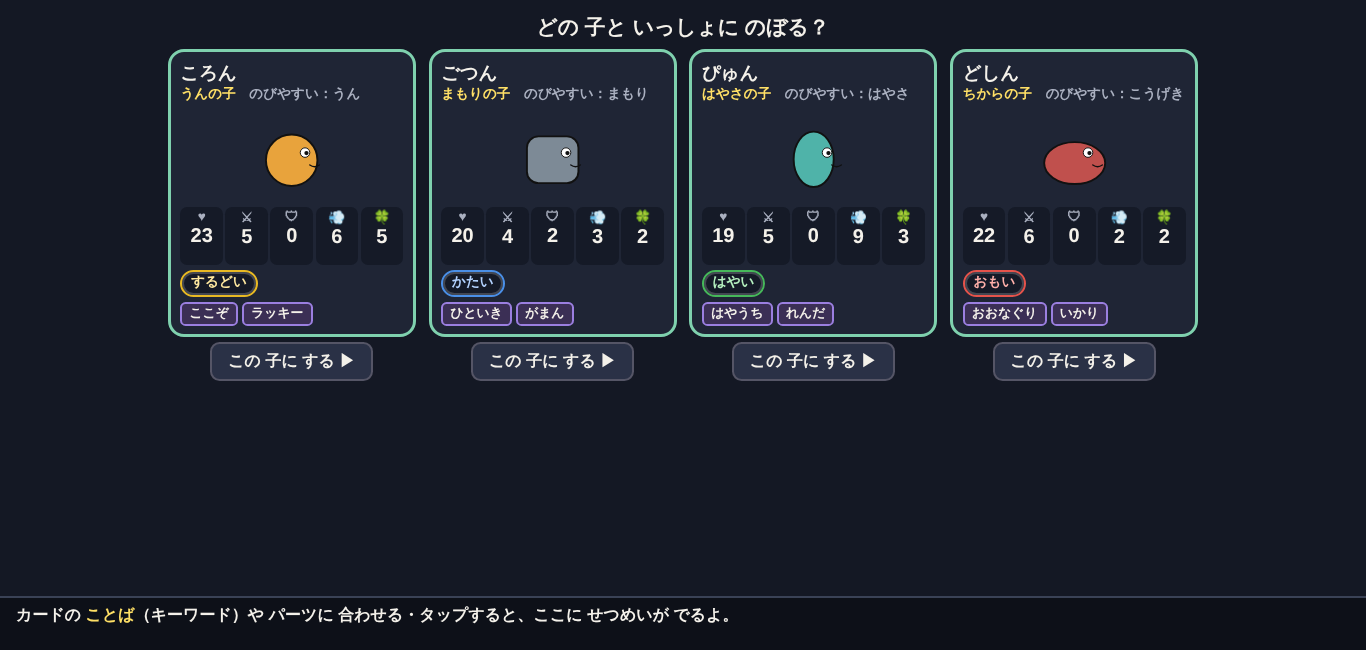
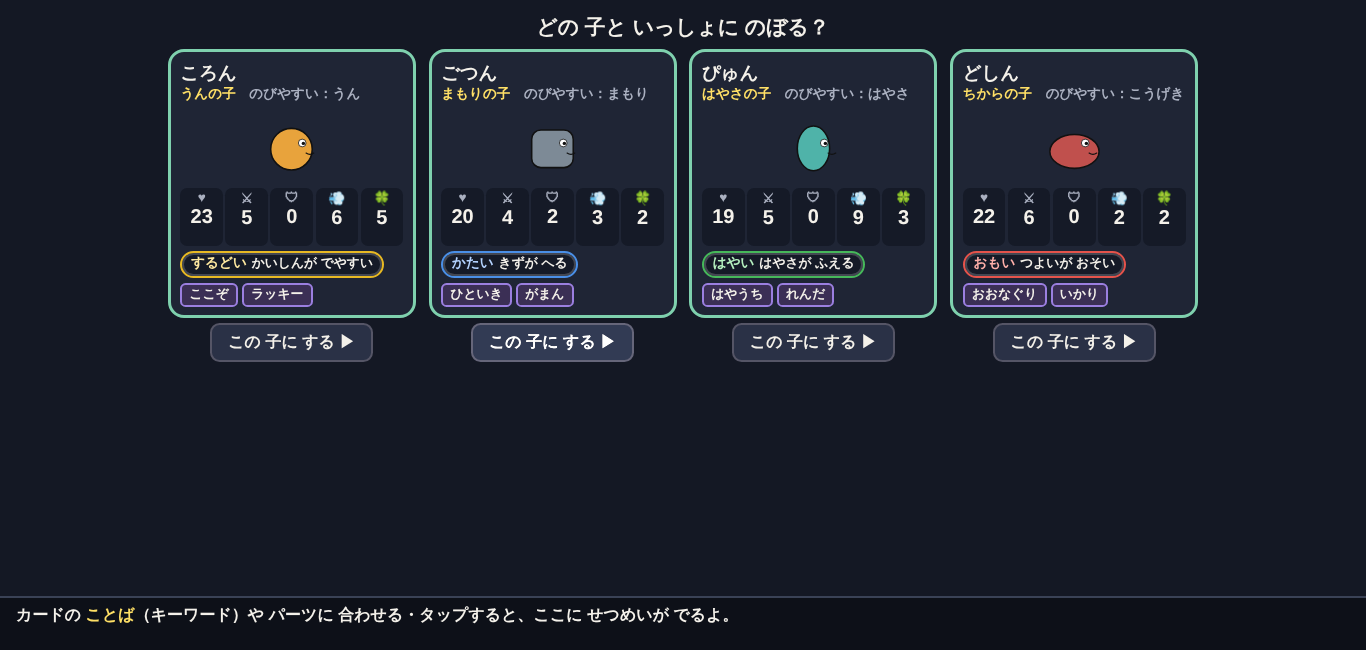
remake その2 の 1つ目：キーワードごとの なれ・ひらめきで 技を 覚える（その キーワードの パーツで 使える）・ひらめき＝レベルアップ（CFG.hira.on）
- 覚える 技 8つ（1つに キーワード 2つ。パーツの キーワード 16を 全部 おおう）
- なれ：戦うたび つけた パーツの キーワードごとに +1（てごわい +2）、3 で 満タン → 勝った あと かならず ひらめく
- ひらめいた ときだけ FE 式の レベルアップ（技の ステータスは かならず +1）。ぬしの たいりょく ×1.3 → ×0.8（hira.on の とき）
- 結果の 画面：💡 ひらめいた！／なれの ●○。カード：おぼえた 技（使えない ときは うすく）
- tests 45 → 65。bot に ひらめきの 列

Claude-Session: https://claude.ai/code/session_01MmzYoQ3ojMtSW1UrjhvAHb

Changed region(s): [[0.123, 0.1846, 0.8917, 0.5846]]

diff --git a/remake/sim.js b/remake/sim.js
@@ -2,7 +2,8 @@
 // ブラウザ（index.html）と Node（bot.js・tests.js）の両方から同じファイルを読む。
 // 設計書：https://claude.ai/artifact/GGMbMbeSY1gf7wLvytHtyb （キーワード・5つの ステータス・うん・役割の 枠・ハート）
 // その1（2026-10-29）：キーワードの パーツ 16・相手 10＋ぬし・種類 4（1つの テーマ）・ハート 3・負けの 理由・ヒント。
-//   ひらめき（技を 覚える）・自由枠・卵・場所 は まだ（その2 以降）。かわりに 勝つと「レベルアップ」（FE 式。その2 で ひらめきに つなぐ）。
+//   自由枠・卵・場所 は まだ。
+// その2 の 1つ目（2026-10-30）：キーワードごとの なれ・ひらめきで 技を 覚える（その キーワードの パーツで 使える）・ひらめき＝レベルアップ（CFG.hira.on）。
 (function (root, factory) {
   var api = factory();
   if (typeof module !== 'undefined' && module.exports) module.exports = api;
@@ -34,7 +35,11 @@
     hard: { hp: 1.2, atk: 1 },     // てごわい：たいりょく ×1.2・こうげき +1
     boss: { hp: 1.3, atk: 1 },
     hpUp: 2,               // レベルアップの たいりょくは +2（ほかは +1）
-    startParts: 3          // はじめの もちもの（役割ごとに 1つ）
+    startParts: 3,         // はじめの もちもの（役割ごとに 1つ）
+    // その2：ひらめき（技を 覚える）。on＝false で その1 の「勝つたび レベルアップ」に もどる
+    //   なれ：戦うたび（勝ち・負け）つけた パーツの キーワードごとに +1（てごわい +2）。nareMax で 満タン。
+    //   勝ったら 1回 ためす：満タンの キーワードが あれば かならず、なければ chance ＋ うん×perLuck（てごわい ＋hard）。
+    hira: { on: true, nareMax: 3, nareHard: 2, chance: 0.15, perLuck: 0.02, hard: 0.15, bossHp: 0.8 } // bossHp：on の ときの ぬしの たいりょく（off は boss.hp）。勝つたびの レベルアップが なくなる ぶん 下げる（ボット）
   };
 
   // ---------- キーワード（役割の 色：せめ＝赤・まもり＝青・うごき＝緑・うん＝黄・じょうたい＝紫） ----------
@@ -95,9 +100,20 @@
     { id: 'hayauchi', name: 'はやうち',  text: 'さいしょの じぶんの手は 2かい こうげき' },
     { id: 'renda',   name: 'れんだ',     text: '4手ごとに、もう1かい こうげき' },
     { id: 'oonaguri', name: 'おおなぐり', text: '4手ごとに、つぎに あたる 1げきが ×2' },
-    { id: 'ikari',   name: 'いかり',     text: 'たいりょくが 半分より すくないと こうげき +2' }
+    { id: 'ikari',   name: 'いかり',     text: 'たいりょくが 半分より すくないと こうげき +2' },
+    // ひらめきで 覚える 技（その2）。kw の どれかを もつ パーツを つけて いる ときだけ 使える。stat＝ひらめいた ときに かならず +1
+    { id: 'chikara', learn: true, kw: ['heavy', 'charge'],   stat: 'atk',  name: 'ちからこめ', text: '4手ごとに、つぎに あたる 1げき +3' },
+    { id: 'kakenuke', learn: true, kw: ['ren', 'fast'],      stat: 'spd',  name: 'かけぬけ',   text: 'あいてより はやければ 1げき +1' },
+    { id: 'todome',  learn: true, kw: ['nerai', 'sure'],     stat: 'atk',  name: 'とどめ',     text: 'あいての たいりょくが 半分より すくないと 1げき +2' },
+    { id: 'shitsukoi', learn: true, kw: ['poison', 'brittle'], stat: 'luck', name: 'しつこい', text: 'あてた どく・もろいが 1手 ながく つづく' },
+    { id: 'fuiuchi', learn: true, kw: ['stagger', 'ranged'], stat: 'spd',  name: 'ふいうち',   text: 'さいしょに あたる 1げき +3' },
+    { id: 'teppeki', learn: true, kw: ['hard', 'counter'],   stat: 'def',  name: 'てっぺき',   text: 'さいしょに うける 1げきは 1 ダメージ' },
+    { id: 'fukkatsu', learn: true, kw: ['regen', 'leech'],   stat: 'hp',   name: 'ふっかつ',   text: 'たいりょくが 半分より すくない 最初の手の はじめに たいりょく +5' },
+    { id: 'mikawashi', learn: true, kw: ['immune', 'hirari'], stat: 'luck', name: 'みかわし', text: 'よけるたび たいりょく +2' }
   ];
   var WAZA_BY_ID = {}; WAZA.forEach(function (w) { WAZA_BY_ID[w.id] = w; });
+  var LEARN = WAZA.filter(function (w) { return w.learn; });
+  var LEARN_BY_KW = {}; LEARN.forEach(function (w) { w.kw.forEach(function (k) { LEARN_BY_KW[k] = w; }); });
 
   // ---------- 種類 4（1つの テーマ：生まれつきの キーワード・伸びやすい ステータス） ----------
   // grow：レベルアップで その ステータスが 上がる 確率（FE の 成長率）。いまは ひらめきが まだ ないので 勝つたびに 1回。
@@ -166,7 +182,7 @@
   // 相手の 段階ごとの 基礎（s＝1〜10、hard＝てごわい）
   function enemyBase(idx, s, hard) {
     var d = enemyDef(idx);
-    var hp = d.hp * (1 + CFG.stageHp * (s - 1)) * (hard ? CFG.hard.hp : 1) * (d.boss ? CFG.boss.hp : 1);
+    var hp = d.hp * (1 + CFG.stageHp * (s - 1)) * (hard ? CFG.hard.hp : 1) * (d.boss ? (CFG.hira.on ? CFG.hira.bossHp : CFG.boss.hp) : 1);
     var atk = d.atk * (1 + CFG.stageAtk * (s - 1)) + (hard ? CFG.hard.atk : 0) + (d.boss ? CFG.boss.atk : 0);
     return { hp: Math.round(hp), atk: Math.round(atk), def: d.def + Math.floor((s - 1) / CFG.stageDefEvery), spd: d.spd, luck: 0 };
   }
@@ -174,6 +190,13 @@
   function playerSrc(run, equip) {
     var sp = SPECIES_BY_ID[run.species];
     return { base: run.stats, kw: [sp.kw], parts: equipList(equip), enemy: false };
+  }
+  // 戦いで 使える 技：うまれつき 2つ ＋ 覚えた 技の うち、いまの パーツに その キーワードが ある もの
+  function canUse(w, equip) { var ks = {}; equipList(equip).forEach(function (pid) { PART_BY_ID[pid].kw.forEach(function (k) { ks[k] = true; }); }); return w.kw.some(function (k) { return ks[k]; }); }
+  function wazaFor(run, equip) {
+    var out = SPECIES_BY_ID[run.species].waza.slice();
+    (run.learned || []).forEach(function (id) { var w = WAZA_BY_ID[id]; if (w && canUse(w, equip)) out.push(id); });
+    return out;
   }
   function equipList(equip) { var e = equip || {}; return ['atk', 'def', 'mov'].map(function (r) { return e[r]; }).filter(function (x) { return !!x; }); }
 
@@ -183,7 +206,7 @@
   function fighter(side, name, src, waza) {
     var st = statsOf(src);
     return { side: side, name: name, st: st, kw: st.kw, sp: st.specials, hp: st.hp, maxHp: st.hp, hands: 0,
-      poison: 0, poisonPow: 0, stagger: false, brittle: 0, waza: waza || [], kokozoUsed: false, luckyNext: false, gaman: 0 };
+      poison: 0, poisonPow: 0, stagger: false, brittle: 0, waza: waza || [], kokozoUsed: false, luckyNext: false, gaman: 0, hitTaken: 0, fukkatsuUsed: false };
   }
   function battle(pSrc, eSrc, seed, opts) {
     opts = opts || {};
@@ -210,11 +233,14 @@
       for (var h = 0; h < hits && !dead(); h++) {
         // かいひ
         var dodge = a.kw.sure ? 0 : d.st.dodge;
-        if (dodge > 0 && rng() * 100 < dodge) { dodged[d.side]++; log({ t: 'dodge', who: d.side, by: d.kw.yokeru ? 'yokeru' : d.kw.hirari ? 'hirari' : 'luck' }); if (d.waza.indexOf('lucky') >= 0) d.luckyNext = true; continue; }
+        if (dodge > 0 && rng() * 100 < dodge) { dodged[d.side]++; log({ t: 'dodge', who: d.side, by: d.kw.yokeru ? 'yokeru' : d.kw.hirari ? 'hirari' : 'luck' }); if (d.waza.indexOf('lucky') >= 0) d.luckyNext = true; if (d.waza.indexOf('mikawashi') >= 0) { log({ t: 'waza', who: d.side, w: 'mikawashi' }); heal(d, 2, 'mikawashi'); } continue; }
         var m = mult * (charged ? CFG.chargeMult : 1) * (st ? CFG.staggerMult : 1) * (a.multPending || 1); a.multPending = 0;
         var raw = atk * m;
         if (a.sp.weightPlus) raw += 1;
         if (a.gaman) { raw += a.gaman; a.gaman = 0; }
+        if (a.plusPending) { raw += a.plusPending; a.plusPending = 0; }
+        if (a.waza.indexOf('kakenuke') >= 0 && a.st.spd > d.st.spd) raw += 1;
+        if (a.waza.indexOf('todome') >= 0 && d.hp * 2 < d.maxHp) raw += 2;
         var status = d.poison > 0 || d.stagger || d.brittle > 0;
         if (a.kw.nerai && status) raw += CFG.neraiPlus;
         if (d.brittle > 0) raw += CFG.brittlePlus;
@@ -222,22 +248,27 @@
         var dmg = Math.max(1, Math.round(raw) - def);
         var crit = a.critPending || rng() * 100 < a.st.crit; a.critPending = false;
         if (crit) dmg *= CFG.critMult;
+        var wall = d.waza.indexOf('teppeki') >= 0 && d.hitTaken === 0; d.hitTaken++;
+        if (wall) { dmg = 1; log({ t: 'waza', who: d.side, w: 'teppeki' }); }
         dmgTo(d, dmg, charged ? 'charge' : 'hit', a.side);
         dealtSum += dmg;
-        log({ t: 'hit', who: a.side, to: d.side, dmg: dmg, crit: !!crit, charged: !!charged, nerai: !!(a.kw.nerai && status), brittle: d.brittle > 0, pierce: !!(charged && a.sp.hornPierce && d.st.def > 0), hp: d.hp });
+        log({ t: 'hit', who: a.side, to: d.side, dmg: dmg, crit: !!crit, wall: wall, charged: !!charged, nerai: !!(a.kw.nerai && status), brittle: d.brittle > 0, pierce: !!(charged && a.sp.hornPierce && d.st.def > 0), hp: d.hp });
         if (d.waza.indexOf('gaman') >= 0 && d.gaman < 3) d.gaman++;
         if (d.hp > 0) {
           // じょうたいを かける
           if (!d.kw.immune) {
-            if (a.kw.poison) { if (d.poison > 0 && a.sp.fangGrow) { d.poisonPow++; log({ t: 'kw', who: a.side, kw: 'fangGrow', n: CFG.poisonDmg + d.poisonPow }); } d.poison = CFG.poisonHands; log({ t: 'status', who: d.side, st: 'poison' }); }
+            if (a.kw.poison) { if (d.poison > 0 && a.sp.fangGrow) { d.poisonPow++; log({ t: 'kw', who: a.side, kw: 'fangGrow', n: CFG.poisonDmg + d.poisonPow }); } d.poison = CFG.poisonHands + (a.waza.indexOf('shitsukoi') >= 0 ? 1 : 0); log({ t: 'status', who: d.side, st: 'poison', n: d.poison }); }
             if (a.kw.stagger) { d.stagger = true; log({ t: 'status', who: d.side, st: 'stagger' }); }
-            if (a.kw.brittle) { d.brittle = CFG.brittleHands; log({ t: 'status', who: d.side, st: 'brittle' }); }
+            if (a.kw.brittle) { d.brittle = CFG.brittleHands + (a.waza.indexOf('shitsukoi') >= 0 ? 1 : 0); log({ t: 'status', who: d.side, st: 'brittle', n: d.brittle }); }
           } else if (a.kw.poison || a.kw.stagger || a.kw.brittle) log({ t: 'kw', who: d.side, kw: 'immune' });
           // はんげき
           if (d.kw.counter && !a.kw.ranged) {
             // はんげきも「1げき」：うける 側の もろい（+2）・はんげきする 側の ねらいうち（+2）が のる
-            var craw = Math.round(d.st.atk * CFG.counterRatio) + (a.brittle > 0 ? CFG.brittlePlus : 0) + (d.kw.nerai && (a.poison > 0 || a.stagger || a.brittle > 0) ? CFG.neraiPlus : 0);
+            var craw = Math.round(d.st.atk * CFG.counterRatio) + (a.brittle > 0 ? CFG.brittlePlus : 0) + (d.kw.nerai && (a.poison > 0 || a.stagger || a.brittle > 0) ? CFG.neraiPlus : 0)
+              + (d.waza.indexOf('kakenuke') >= 0 && d.st.spd > a.st.spd ? 1 : 0) + (d.waza.indexOf('todome') >= 0 && a.hp * 2 < a.maxHp ? 2 : 0); // 覚えた 技の「1げき +」も のる
             var c = Math.max(1, craw - a.st.def);
+            if (a.waza.indexOf('teppeki') >= 0 && a.hitTaken === 0) { c = 1; log({ t: 'waza', who: a.side, w: 'teppeki' }); }
+            a.hitTaken++;
             dmgTo(a, c, 'counter', d.side);
             if (a.waza.indexOf('gaman') >= 0 && a.gaman < 3) a.gaman++;
             log({ t: 'counter', who: d.side, to: a.side, dmg: c, hp: a.hp });
@@ -251,6 +282,9 @@
       log({ t: 'hand', who: a.side, n: a.hands });
       if (a.kw.regen) heal(a, CFG.regenHeal, 'regen');
       if (a.waza.indexOf('hitoiki') >= 0 && a.hands % 4 === 0) { log({ t: 'waza', who: a.side, w: 'hitoiki' }); heal(a, 3, 'hitoiki'); }
+      if (a.waza.indexOf('fukkatsu') >= 0 && !a.fukkatsuUsed && a.hp * 2 < a.maxHp) { a.fukkatsuUsed = true; log({ t: 'waza', who: a.side, w: 'fukkatsu' }); heal(a, 5, 'fukkatsu'); }
+      if (a.waza.indexOf('chikara') >= 0 && a.hands % 4 === 0) { a.plusPending = (a.plusPending || 0) + 3; log({ t: 'waza', who: a.side, w: 'chikara' }); }
+      if (a.waza.indexOf('fuiuchi') >= 0 && a.hands === 1) { a.plusPending = (a.plusPending || 0) + 3; log({ t: 'waza', who: a.side, w: 'fuiuchi' }); }
       var hits = 1;
       if (a.kw.ren) hits = (a.sp.claw3 && a.st.spd > d.st.spd) ? 3 : 2;
       var forceCrit1 = false, mult1 = 0;
@@ -306,7 +340,7 @@
     var rng = rngFrom(mix(seed, 777));
     var owned = ROLES.map(function (r) { var c = PARTS.filter(function (p) { return p.role === r.id; }); return c[Math.floor(rng() * c.length)].id; });
     var run = { v: 1, seed: seed >>> 0, species: sp.id, stats: JSON.parse(JSON.stringify(sp.base)), hearts: CFG.hearts, wins: 0,
-      owned: owned, equip: { atk: owned[0], def: owned[1], mov: owned[2] }, tries: 0, lossStreak: 0, levels: [], history: [], over: false, clear: false };
+      owned: owned, equip: { atk: owned[0], def: owned[1], mov: owned[2] }, tries: 0, lossStreak: 0, levels: [], nare: {}, learned: [], history: [], over: false, clear: false };
     run.fork = makeFork(run);
     return run;
   }
@@ -334,13 +368,16 @@
     var road = run.fork.roads[roadIndex];
     var s = run.fork.stage, d = enemyDef(road.idx);
     run.equip = { atk: equip.atk || null, def: equip.def || null, mov: equip.mov || null };
-    var res = battle(playerSrc(run, run.equip), enemySrc(road.idx, s, road.hard), battleSeed(run, road), { waza: SPECIES_BY_ID[run.species].waza, eName: d.name });
+    if (!run.nare) run.nare = {}; if (!run.learned) run.learned = []; // 前の 保存（その1）にも 足す
+    var res = battle(playerSrc(run, run.equip), enemySrc(road.idx, s, road.hard), battleSeed(run, road), { waza: wazaFor(run, run.equip), eName: d.name });
+    if (CFG.hira.on) addNare(run, road.hard);
     var out = { res: res, win: res.win, stage: s, road: road };
     run.history.push({ s: s, e: d.id, hard: road.hard, win: res.win, try: run.tries });
     if (res.win) {
       out.reward = rewardsFor(run, road);
       out.reward.forEach(function (p) { run.owned.push(p); });
-      out.level = levelUp(run);
+      if (CFG.hira.on) { out.hira = hirameki(run, road); if (out.hira) out.level = levelUp(run, WAZA_BY_ID[out.hira].stat); }
+      else out.level = levelUp(run);
       run.wins++; run.tries = 0; run.lossStreak = 0;
       if (run.wins >= CFG.runBattles) { run.clear = true; run.over = true; out.clear = true; }
       else run.fork = makeFork(run);
@@ -352,22 +389,46 @@
     return out;
   }
   // レベルアップ（FE 式）：ステータスごとに 成長率の 確率で +1（たいりょくは +2）。1つも 上がらなければ いちばん 成長率の 高い ものを +1。
-  function levelUp(run) {
+  // must：かならず 上がる ステータス（ひらめいた 技の stat）
+  function levelUp(run, must) {
     var sp = SPECIES_BY_ID[run.species], rng = rngFrom(mix(run.seed, 9000 + run.wins)), up = {}, any = false;
-    STATS.forEach(function (s) { if (rng() < sp.grow[s.id]) { up[s.id] = s.id === 'hp' ? CFG.hpUp : 1; any = true; } });
+    STATS.forEach(function (s) { if (rng() < sp.grow[s.id] || s.id === must) { up[s.id] = s.id === 'hp' ? CFG.hpUp : 1; any = true; } });
     if (!any) { var best = STATS.slice().sort(function (a, b) { return sp.grow[b.id] - sp.grow[a.id]; })[0].id; up[best] = best === 'hp' ? CFG.hpUp : 1; }
     Object.keys(up).forEach(function (k) { run.stats[k] += up[k]; });
     run.levels.push(up);
     return up;
+  }
+  // なれ：つけた パーツの キーワードごとに +1（てごわい +nareHard）。満タンを こえない。もう 覚えた 技の キーワードは ためない
+  function addNare(run, hard) {
+    var seen = {};
+    equipList(run.equip).forEach(function (pid) { PART_BY_ID[pid].kw.forEach(function (k) {
+      if (seen[k] || !LEARN_BY_KW[k] || run.learned.indexOf(LEARN_BY_KW[k].id) >= 0) return; seen[k] = true;
+      run.nare[k] = Math.min(CFG.hira.nareMax, (run.nare[k] || 0) + (hard ? CFG.hira.nareHard : 1));
+    }); });
+  }
+  // ひらめき（勝った あと 1回）：まだ 覚えて いない 技の キーワードで、なれが 満タンの ものが あれば かならず（いちばん 多い・同じなら パーツの 順）。
+  // なければ chance ＋ うん×perLuck（てごわい ＋hard）の 確率で、つけた キーワードから 1つ。覚えたら その 技の キーワードの なれは 0。返すもの：技の id か null
+  function hirameki(run, road) {
+    var rng = rngFrom(mix(run.seed, 9500 + run.wins * 3 + run.tries)), cand = [];
+    equipList(run.equip).forEach(function (pid) { PART_BY_ID[pid].kw.forEach(function (k) { var w = LEARN_BY_KW[k]; if (w && run.learned.indexOf(w.id) < 0 && cand.indexOf(k) < 0) cand.push(k); }); });
+    if (!cand.length) return null;
+    var full = cand.filter(function (k) { return (run.nare[k] || 0) >= CFG.hira.nareMax; }), pick = null;
+    if (full.length) pick = full.slice().sort(function (a, b) { return (run.nare[b] || 0) - (run.nare[a] || 0); })[0];
+    else { var p = CFG.hira.chance + CFG.hira.perLuck * run.stats.luck + (road.hard ? CFG.hira.hard : 0); if (rng() < p) pick = cand[Math.floor(rng() * cand.length)]; }
+    if (!pick) return null;
+    var w = LEARN_BY_KW[pick];
+    run.learned.push(w.id);
+    w.kw.forEach(function (k) { run.nare[k] = 0; });
+    return w.id;
   }
   // ヒント（2回 続けて 負けたとき）：もちものの 組み合わせを 全部 ためして、いちばん 勝ちやすい 組を 返す
   function bestEquip(run, roadIndex, tries) {
     tries = tries || 12;
     var road = run.fork.roads[roadIndex], s = run.fork.stage;
     var byRole = {}; ROLES.forEach(function (r) { byRole[r.id] = [null].concat(run.owned.filter(function (p) { return PART_BY_ID[p].role === r.id; })); });
-    var best = null, bestScore = -1, bestN = -1, eSrc = enemySrc(road.idx, s, road.hard), waza = SPECIES_BY_ID[run.species].waza;
+    var best = null, bestScore = -1, bestN = -1, eSrc = enemySrc(road.idx, s, road.hard);
     byRole.atk.forEach(function (a) { byRole.def.forEach(function (d) { byRole.mov.forEach(function (m) {
-      var eq = { atk: a, def: d, mov: m }, w = 0, pSrc = playerSrc(run, eq);
+      var eq = { atk: a, def: d, mov: m }, w = 0, pSrc = playerSrc(run, eq), waza = wazaFor(run, eq);
       for (var i = 0; i < tries; i++) { var r = battle(pSrc, eSrc, mix(4242 + i, s), { waza: waza }); if (r.win) w += 1; else w += 0.001 * (1 - r.eHp / r.eMax); }
       // 同じ くらいなら パーツが 多い 組（「はずす」を むやみに すすめない）
       var n = (a ? 1 : 0) + (d ? 1 : 0) + (m ? 1 : 0);
@@ -378,7 +439,7 @@
   }
 
   return { CFG: CFG, KW: KW, KW_BY_ID: KW_BY_ID, ROLES: ROLES, ROLE_COLOR: ROLE_COLOR, STATS: STATS, PARTS: PARTS, PART_BY_ID: PART_BY_ID, PART_IDS: PART_IDS,
-    WAZA: WAZA, WAZA_BY_ID: WAZA_BY_ID, SPECIES: SPECIES, SPECIES_BY_ID: SPECIES_BY_ID, ENEMIES: ENEMIES, BOSS: BOSS, ENEMY_BY_ID: ENEMY_BY_ID, enemyDef: enemyDef,
+    WAZA: WAZA, WAZA_BY_ID: WAZA_BY_ID, LEARN: LEARN, LEARN_BY_KW: LEARN_BY_KW, wazaFor: wazaFor, canUse: canUse, addNare: addNare, hirameki: hirameki, SPECIES: SPECIES, SPECIES_BY_ID: SPECIES_BY_ID, ENEMIES: ENEMIES, BOSS: BOSS, ENEMY_BY_ID: ENEMY_BY_ID, enemyDef: enemyDef,
     rngFrom: rngFrom, mix: mix, statsOf: statsOf, enemyBase: enemyBase, enemySrc: enemySrc, playerSrc: playerSrc, equipList: equipList,
     battle: battle, loseReason: loseReason, REASONS: REASONS, newRun: newRun, makeFork: makeFork, rewardsFor: rewardsFor, fight: fight, levelUp: levelUp, bestEquip: bestEquip };
 });

diff --git a/remake/index.html b/remake/index.html
@@ -74,6 +74,11 @@ h2 { margin:.2rem 0 .5rem; font-size:1.3rem; }
 .ptile.empty { border-style:dashed; border-color:#555d70; color:#555d70; font-size:.8rem; font-weight:800; }
 .wzs { display:flex; gap:.25rem; flex-wrap:wrap; margin-top:.3rem; }
 .wz { font-size:.8rem; font-weight:900; padding:.1rem .45rem; border-radius:.35rem; background:#3b2f55; border:2px solid #9b7fe0; cursor:help; }
+.wz.learn { background:#4a3a12; border-color:#ffd166; }
+.wz.learn.off { opacity:.45; border-style:dashed; }
+.hira { font-size:1.15rem; font-weight:900; color:#ffe066; }
+.nare { display:flex; flex-wrap:wrap; gap:.3rem .7rem; justify-content:center; font-size:.85rem; font-weight:800; }
+.nare .dots { color:#ffd166; letter-spacing:.1rem; }
 .tag { white-space:nowrap; font-size:.8rem; font-weight:900; padding:.05rem .45rem; border-radius:.35rem; }
 .tag.hard { background:#ff7a59; color:#2a0f05; }
 /* 下の 説明の 帯（合わせる／タップで 出る） */
@@ -362,7 +367,7 @@ body[data-scr="title"] #tip { display:none; } /* タイトルには カードも
     (o.parts || []).forEach(function (pid) { S.PART_BY_ID[pid].kw.forEach(function (k) { if (!seen[k]) { seen[k] = 1; kwHtml += kwBadge(k); } }); });
     NOTE_LEFT = 99;
     var tiles = (o.parts || []).map(function (p) { return ptile(p); }).join('');
-    var wz = (o.waza || []).map(function (w) { return '<span class="wz" data-waza="' + w + '">' + S.WAZA_BY_ID[w].name + '</span>'; }).join('');
+    var wz = (o.waza || []).map(function (w) { var L = S.WAZA_BY_ID[w].learn, off = L && o.wazaOn && o.wazaOn.indexOf(w) < 0; return '<span class="wz' + (L ? ' learn' : '') + (off ? ' off' : '') + '" data-waza="' + w + '">' + (L ? '💡' : '') + S.WAZA_BY_ID[w].name + '</span>'; }).join('');
     return '<div class="card ' + (o.kind === 'me' ? 'me' : '') + (o.hard ? ' hard' : '') + '">' +
       '<div class="nm"><span>' + o.name + '</span>' + (o.hard ? '<span class="tag hard">てごわい</span>' : '') + '</div>' +
       (o.sub ? '<div class="sub">' + o.sub + '</div>' : '') +
@@ -374,7 +379,7 @@ body[data-scr="title"] #tip { display:none; } /* タイトルには カードも
   }
   function meCard(run, equip, cmp) {
     var sp = S.SPECIES_BY_ID[run.species];
-    return card({ kind: 'me', name: run.name || sp.name, sub: sp.name + '・' + sp.theme, shape: sp.shape, color: sp.color, src: S.playerSrc(run, equip), born: sp.kw, parts: S.equipList(equip), waza: sp.waza, cmp: cmp });
+    return card({ kind: 'me', name: run.name || sp.name, sub: sp.name + '・' + sp.theme, shape: sp.shape, color: sp.color, src: S.playerSrc(run, equip), born: sp.kw, parts: S.equipList(equip), waza: sp.waza.concat(run.learned || []), wazaOn: S.wazaFor(run, equip), cmp: cmp });
   }
   function foeCard(road, stage) {
     var d = S.enemyDef(road.idx);
@@ -387,7 +392,7 @@ body[data-scr="title"] #tip { display:none; } /* タイトルには カードも
     var k = el.getAttribute('data-kw'), p = el.getAttribute('data-part'), w = el.getAttribute('data-waza'), s = el.getAttribute('data-stat');
     if (k) { var d = S.KW_BY_ID[k]; return '<b>' + d.name + '</b>：' + d.text() + '（おなじ ことばが 2つ あっても 1かいぶん）'; }
     if (p) { var pp = S.PART_BY_ID[p]; return '<b>' + pp.name + '</b>（' + S.ROLES.filter(function (r) { return r.id === pp.role; })[0].name + '）：' + pp.kw.map(function (x) { return S.KW_BY_ID[x].name; }).join('・') + '／' + pp.line; }
-    if (w) { var ww = S.WAZA_BY_ID[w]; return '<b>' + ww.name + '</b>（うまれつきの わざ）：' + ww.text; }
+    if (w) { var ww = S.WAZA_BY_ID[w]; return '<b>' + ww.name + '</b>（' + (ww.learn ? 'おぼえた わざ。' + ww.kw.map(function (x) { return S.KW_BY_ID[x].name; }).join('か ') + 'の パーツを つけると つかえる' : 'うまれつきの わざ') + '）：' + ww.text; }
     if (s) { var tx = { hp: '0 に なると まけ', atk: '1げきの つよさ', def: 'うける 1げきを へらす', spd: 'はやい ほうが さきに うごく', luck: 'かいしんと かいひの でやすさ（かいしん ' + C.critBase + '%＋うん×' + C.critPerLuck + '%・かいひ うん×' + C.dodgePerLuck + '%）。あいては うんを もたない' }; return '<b>' + STAT_LABEL[s] + '</b>：' + tx[s]; }
     return null;
   }
@@ -569,8 +574,8 @@ body[data-scr="title"] #tip { display:none; } /* タイトルには カードも
           floatDmg(e.who, e.dmg, '#c77dff'); addLog(cls, nm + 'は どくで ' + e.dmg, 'poison'); delay = 320; break;
         case 'heal':
           if (e.who === 'e') { eHp = e.hp; setHp('f', eHp, eMax); } else { pHp = e.hp; setHp('m', pHp, pMax); }
-          floatDmg(e.who, '+' + e.n, '#7ee787'); addLog(cls, nm + '：たいりょく +' + e.n + '（' + (e.src === 'regen' ? 'かいふく' : e.src === 'leech' ? 'すいとり' : 'ひといき') + '）', e.src === 'regen' || e.src === 'leech' ? e.src : null);
-          if (e.src === 'regen' || e.src === 'leech') glowKw(who, e.src); else glow(who, '[data-waza="hitoiki"]');
+          floatDmg(e.who, '+' + e.n, '#7ee787'); addLog(cls, nm + '：たいりょく +' + e.n + '（' + (e.src === 'regen' ? 'かいふく' : e.src === 'leech' ? 'すいとり' : (WZ[e.src] ? WZ[e.src].name : e.src)) + '）', e.src === 'regen' || e.src === 'leech' ? e.src : null);
+          if (e.src === 'regen' || e.src === 'leech') glowKw(who, e.src); else glow(who, '[data-waza="' + e.src + '"]');
           delay = 300; break;
         case 'waza': addLog(cls, nm + 'の わざ「' + WZ[e.w].name + '」！'); glow(who, '[data-waza="' + e.w + '"]'); popText(WZ[e.w].name + '！', 'crit'); delay = 450; break;
         case 'hand': chgMark(e.who === 'p' ? 'e' : 'p', 'off'); chgMark(e.who, e.n); if (e.who === 'p') { $('handN').textContent = e.n + '手め'; addLog('hl', '― ' + me + 'の ' + e.n + '手め ―'); } delay = 60; break;
@@ -587,7 +592,10 @@ body[data-scr="title"] #tip { display:none; } /* タイトルには カードも
     if (out.win) {
       h += '<h1>' + (out.clear ? 'ぬしを たおした！ クリア！' : 'かった！') + '</h1>';
       if (out.reward && out.reward.length) h += '<h2>あたらしい パーツ</h2><div class="ptiles" style="justify-content:center">' + out.reward.map(function (p) { return ptile(p); }).join('') + '</div><div class="sub" style="color:var(--dim)">' + out.reward.map(function (p) { var pp = S.PART_BY_ID[p]; return pp.name + '（' + pp.kw.map(function (k) { return S.KW_BY_ID[k].name; }).join('・') + '）'; }).join('、') + '</div>';
-      h += '<h2>レベルアップ！</h2><div class="lvl">' + S.STATS.map(function (s, i) { var u = out.level[s.id]; return '<span>' + STAT_LABEL[s.id] + ' ' + (before.stats[s.id]) + (u ? ' → ' + run.stats[s.id] : '') + '</span><span class="fx-up" style="animation-delay:' + (0.25 * i / SPEED) + 's">' + (u ? '↑ +' + u : '') + '</span>'; }).join('') + '</div>';
+      if (out.hira) { var hw = S.WAZA_BY_ID[out.hira]; h += '<h2 class="hira">💡 ひらめいた！「' + hw.name + '」を おぼえた</h2><div class="sub">' + hw.text + '<br>（' + hw.kw.map(function (x) { return S.KW_BY_ID[x].name; }).join('か ') + 'の パーツを つけると つかえる）</div>'; }
+      else if (S.CFG.hira.on) { var nk = []; S.equipList(before.equip || {}).forEach(function (pid) { S.PART_BY_ID[pid].kw.forEach(function (k) { var lw = S.LEARN_BY_KW[k]; if (lw && nk.indexOf(k) < 0 && (run.learned || []).indexOf(lw.id) < 0) nk.push(k); }); });
+        if (nk.length) h += '<h2>💡 なれ</h2><div class="nare">' + nk.map(function (k) { var n = (run.nare || {})[k] || 0; return '<span>' + S.KW_BY_ID[k].name + ' <span class="dots">' + '●'.repeat(n) + '○'.repeat(Math.max(0, S.CFG.hira.nareMax - n)) + '</span></span>'; }).join('') + '</div><div class="sub" style="color:var(--dim)">●が いっぱいに なると かならず ひらめく</div>'; }
+      if (out.level) h += '<h2>レベルアップ！</h2><div class="lvl">' + S.STATS.map(function (s, i) { var u = out.level[s.id]; return '<span>' + STAT_LABEL[s.id] + ' ' + (before.stats[s.id]) + (u ? ' → ' + run.stats[s.id] : '') + '</span><span class="fx-up" style="animation-delay:' + (0.25 * i / SPEED) + 's">' + (u ? '↑ +' + u : '') + '</span>'; }).join('') + '</div>';
       h += '<div class="actions"><button class="big" id="bNext">' + (out.clear ? 'おわり' : 'つぎの 道へ ▶') + '</button></div>';
     } else {
       var r = out.reason;

diff --git a/remake/bot.js b/remake/bot.js
@@ -11,7 +11,7 @@ var t0 = Date.now();
 if (process.env.DEKO_CFG) { var o = JSON.parse(process.env.DEKO_CFG); Object.keys(o).forEach(function (k) { S.CFG[k] = o[k]; }); }
 
 function playRun(seed, species, policy) {
-  var run = S.newRun(seed, species), rng = S.rngFrom(S.mix(seed, 31337)), log = { losses: 0, reasons: {}, minHearts: 3 };
+  var run = S.newRun(seed, species), rng = S.rngFrom(S.mix(seed, 31337)), log = { losses: 0, reasons: {}, minHearts: 3, hira: 0 };
   var guard = 0;
   while (!run.over && guard++ < 60) {
     var roads = run.fork.roads, ri = 0, eq = run.equip; // start：はじめの 3つの まま・いつも 左の 道（何も 考えない＝正解の道の 物差し）
@@ -27,19 +27,20 @@ function playRun(seed, species, policy) {
       S.ROLES.forEach(function (r) { if (!eq[r.id]) { var c = run.owned.filter(function (p) { return S.PART_BY_ID[p].role === r.id; }); eq[r.id] = c[0] || null; } });
     }
     var out = S.fight(run, ri, eq);
+    if (out.hira) log.hira++;
     if (!out.win) { log.losses++; log.reasons[out.reason.id] = (log.reasons[out.reason.id] || 0) + 1; }
   }
-  return { wins: run.wins, clear: run.clear, hearts: run.hearts, losses: log.losses, reasons: log.reasons, history: run.history };
+  return { hira: log.hira, learned: run.learned.length, wins: run.wins, clear: run.clear, hearts: run.hearts, losses: log.losses, reasons: log.reasons, history: run.history };
 }
 
 var species = ONLY === 'all' ? S.SPECIES.map(function (s) { return s.id; }) : [ONLY];
 var rows = [], byEnemy = {}, byStage = {};
 ['greedy', 'random', 'start'].forEach(function (pol) {
   species.forEach(function (sp) {
-    var clear = 0, wins = 0, losses = 0, reasons = {}, battles = 0;
+    var clear = 0, wins = 0, losses = 0, reasons = {}, battles = 0, hira = 0;
     for (var i = 0; i < N; i++) {
       var r = playRun(1000 + i, sp, pol);
-      if (r.clear) clear++; wins += r.wins; losses += r.losses;
+      if (r.clear) clear++; hira += r.hira; wins += r.wins; losses += r.losses;
       Object.keys(r.reasons).forEach(function (k) { reasons[k] = (reasons[k] || 0) + r.reasons[k]; });
       battles += r.history.length;
       if (pol === 'greedy') r.history.forEach(function (h) {
@@ -47,12 +48,12 @@ var rows = [], byEnemy = {}, byStage = {};
         byStage[h.s] = byStage[h.s] || [0, 0]; byStage[h.s][0] += h.win ? 1 : 0; byStage[h.s][1]++;
       });
     }
-    rows.push('| ' + pol + ' | ' + sp + ' | ' + (100 * clear / N).toFixed(0) + '% | ' + (wins / N).toFixed(1) + ' | ' + (losses / N).toFixed(2) + ' | ' + (battles / N).toFixed(1) + ' | ' + JSON.stringify(reasons) + ' |');
+    rows.push('| ' + pol + ' | ' + sp + ' | ' + (100 * clear / N).toFixed(0) + '% | ' + (wins / N).toFixed(1) + ' | ' + (losses / N).toFixed(2) + ' | ' + (battles / N).toFixed(1) + ' | ' + (hira / N).toFixed(1) + ' | ' + JSON.stringify(reasons) + ' |');
   });
 });
 console.log('## ボット（' + N + ' 周回ずつ）\n');
-console.log('| ボット | 種類 | クリア | 平均の 勝ち数 | 負け（ハート） | 戦った 数 | 負けの 理由 |');
-console.log('|---|---|---|---|---|---|---|');
+console.log('| ボット | 種類 | クリア | 平均の 勝ち数 | 負け（ハート） | 戦った 数 | ひらめき | 負けの 理由 |');
+console.log('|---|---|---|---|---|---|---|---|');
 rows.forEach(function (r) { console.log(r); });
 console.log('\n## 合わせボットの 相手ごとの 勝率');
 Object.keys(byEnemy).sort().forEach(function (k) { console.log('- ' + k + '：' + (100 * byEnemy[k][0] / byEnemy[k][1]).toFixed(0) + '%（' + byEnemy[k][1] + '戦）'); });
